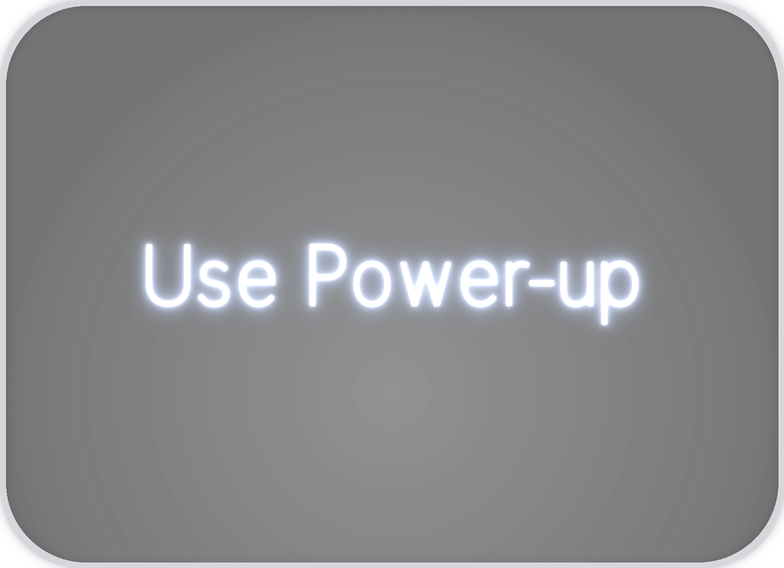
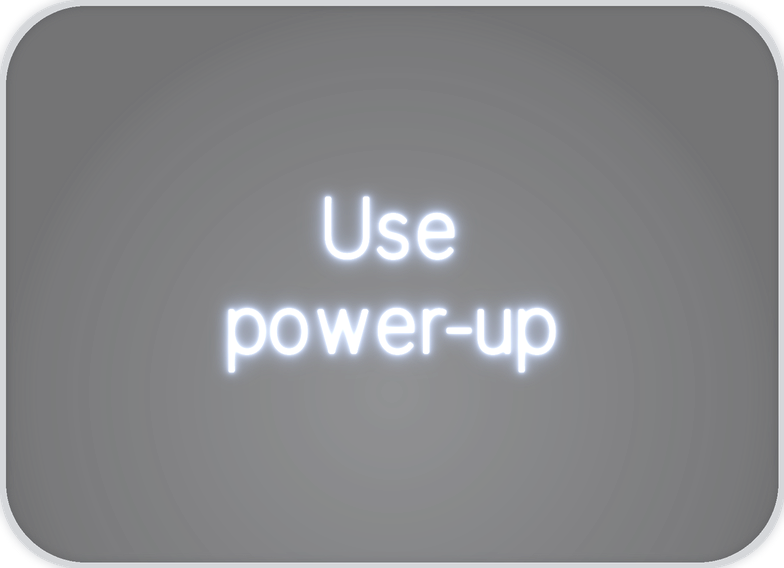
Use power-up pad label: two lines, lowercase p (help page and in-game pad)

Changed region(s): [[0.1531, 0.3292, 0.8265, 0.6585]]

diff --git a/tools/art/neon_ui.py b/tools/art/neon_ui.py
@@ -378,11 +378,11 @@ def build_pads():
         N.finish(t, w, h, 'hud/%s.png' % name)
     for name, w, h in [('padVertical', 160, 576), ('padHorizontal', 392, 284)]:
         N.finish(glass_pad(w, h), w, h, 'hud/%s.png' % name)
-    for name, text in [('padsShield', 'Switch\nShield'), ('padsItem', 'Use Power-up'), ('padsShieldEsp', 'Cambiar\nEscudo'), ('padsItemEsp', 'Usar Objeto')]:
+    for name, text in [('padsShield', 'Switch\nShield'), ('padsItem', 'Use\npower-up'), ('padsShieldEsp', 'Cambiar\nEscudo'), ('padsItemEsp', 'Usar Objeto')]:
         t = glass_pad(392, 284)
         m = font.mask(text, 40)
         # the two-line Switch Shield label sits higher so the energy bar under the pad never covers it
-        center_text(t, m, t.width / 2, t.height * (0.34 if '\n' in text else 0.5), TUBE_WHITE, size=40)
+        center_text(t, m, t.width / 2, t.height * (0.34 if text.startswith(('Switch', 'Cambiar')) else 0.5), TUBE_WHITE, size=40)
         N.finish(t, 392, 284, 'hud/%s.png' % name)
 
 

diff --git a/tools/art/neon_help.py b/tools/art/neon_help.py
@@ -31,7 +31,7 @@ TEXT = {
         'items': ['Blue orbs converter', 'Red orbs converter', 'Blue orbs have a value of 2', 'Red orbs have a value of 2',
                   "Orb's speed decreases", 'No damage from blue orbs', 'No damage from red orbs',
                   'Blue orbs have a value of 3', 'Red orbs have a value of 3', 'Collects both orbs'],
-        'pads': ['Left', 'Right', 'Use Power-up', 'Switch\nShield'],
+        'pads': ['Left', 'Right', 'Use\npower-up', 'Switch\nShield'],
     },
     'es': {
         'inst': [
